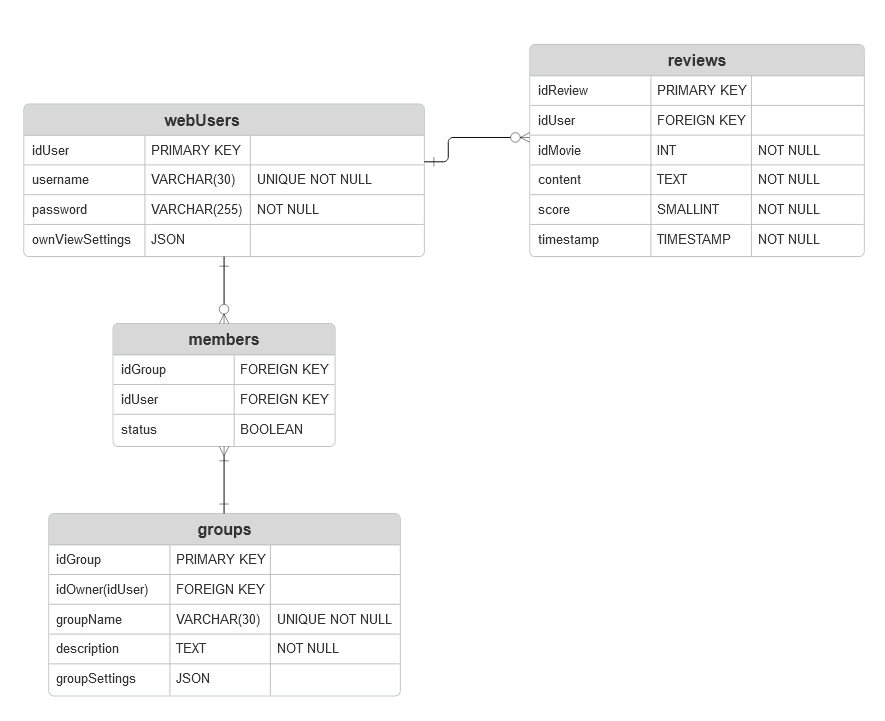
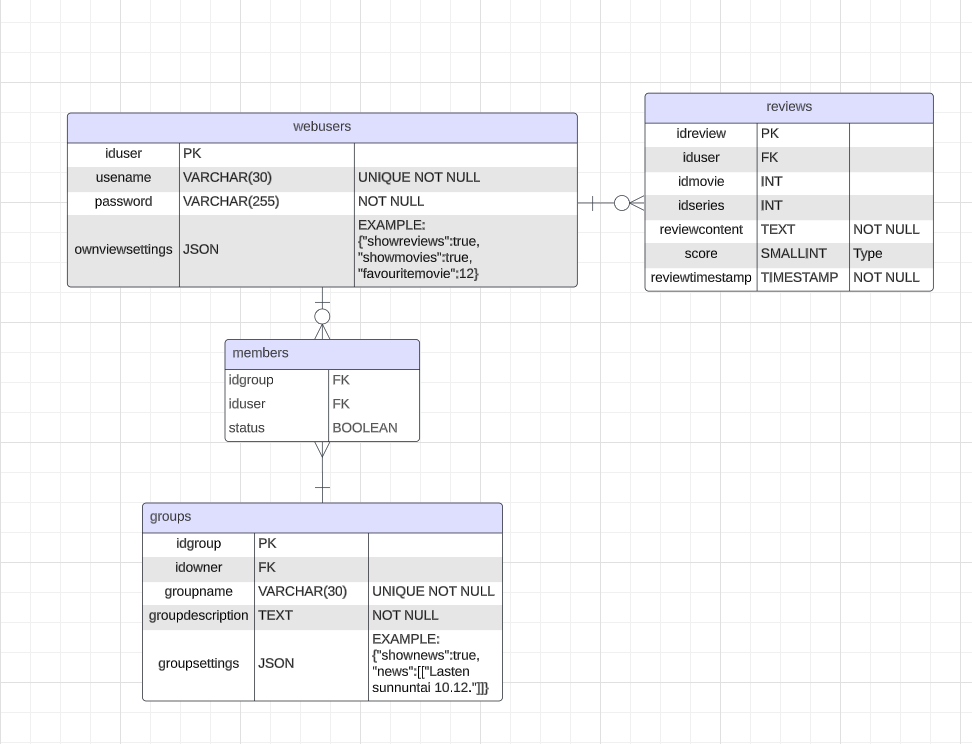
ER diagram and CSS
- Updated the ER diagram with json examples
- Removed some unnecessary CSS

Changed region(s): [[0.0, 0.061, 0.9763, 0.6408], [0.0305, 0.6713, 0.5186, 0.9764]]

diff --git a/client/src/reviews.css b/client/src/reviews.css
@@ -1,10 +1,16 @@
-/* CSS for reviews */
+/* Start of CSS for reviews */
+.reviews-list {
+    display: grid;
+    grid-template-columns: 1fr 1fr 1fr;/* 3 columns */
+    grid-gap: 10px;
+}
+
 .reviews-item {
     display: grid;
     grid-template-columns: 1fr;
     grid-template-rows: auto;
     border: 1px solid white;
-    border-radius: 5px;
+    border-radius: 3px;
     height: auto;
     word-break: break-word;
     padding-left: 10px;
@@ -16,6 +22,7 @@
     padding-left: 0;
 }
 
+/* Popup CSS layout start */
 .reviews-popup {
     display: grid;
     grid-template-columns: 1fr 1fr;/* 2 columns */
@@ -26,7 +33,7 @@
     height: 30%;
     transform: translate(-50%, -50%); /* Centers popup */
     animation: popup 0.5s ease-out forwards;
-    border-radius: 10px;
+    border-radius: 3px;
     z-index: 1000; /* Makes sure popup is on top of everything else */
     padding: 10px;
     background-color: #656775;
@@ -63,10 +70,15 @@
 
 .reviews-popup .reviews-button {
     grid-area: 3 / 1 / 4 / 3;
+    width: auto;
     margin-right: 0;
+    margin-bottom: 0;
+    padding: 0;
     font-size: large;
     background-color: #A1A5BB;
 }
+/* Popup CSS layout end */
+
 
 .Reviews {
     padding-left: 10px;
@@ -75,16 +87,20 @@
 
 .reviews-button {
     text-align: center;
+    width: fit-content;
+    margin-left: 0;
     margin-right: 10px;
     padding: 10px;
-    border-radius: 5px;
-    border: none;
     transition: 0.3s;
-    cursor: pointer;
-    color: white;
-    background-color: #595b68;
 }
 
+.reviews-container .reviews-button {
+    width: auto;
+}
+
+.reviews-button a:link, a:visited {
+    text-decoration: none;
+}
 .reviews-button:hover {
     background-color: #A1A5BB;
 }
@@ -93,7 +109,7 @@
     text-align: center;
     width: 100px;
     padding: 10px;
-    border-radius: 5px;
+    border-radius: 3px;
     border: none;
     cursor: pointer;
     color: white;
@@ -111,12 +127,6 @@
 
 .reviews-sort label {
     margin-right: 10px;
-}
-
-.reviews-list {
-    display: grid;
-    grid-template-columns: 1fr 1fr 1fr;/* 3 columns */
-    grid-gap: 10px;
 }
 
 .Reviews a:link, a:visited {
@@ -159,3 +169,5 @@
         transform: translate(-50%, -50%);
     }
 }
+
+/* End of CSS for reviews */
